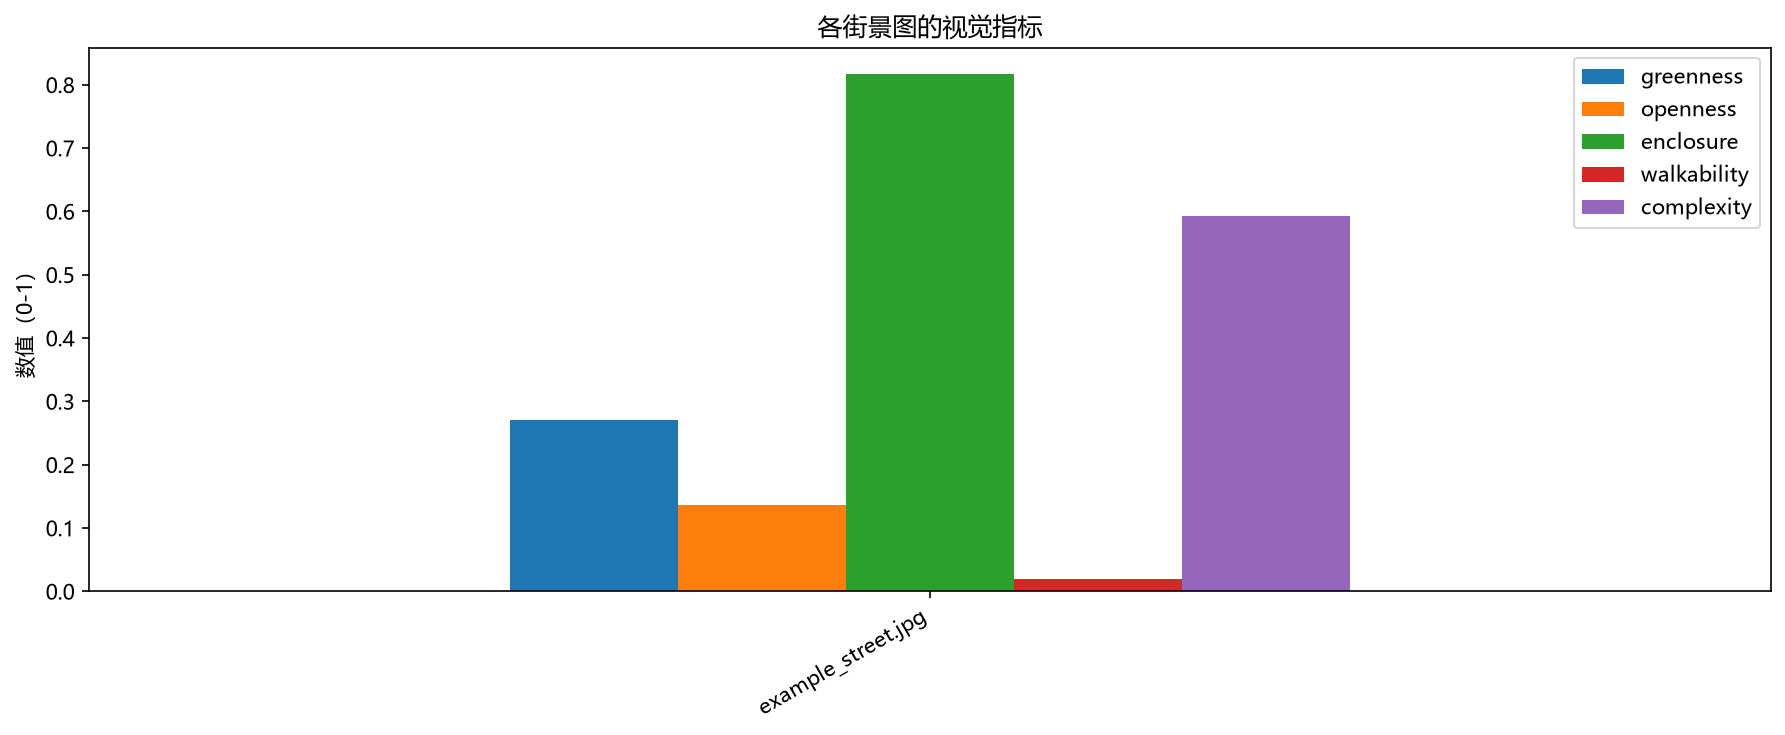
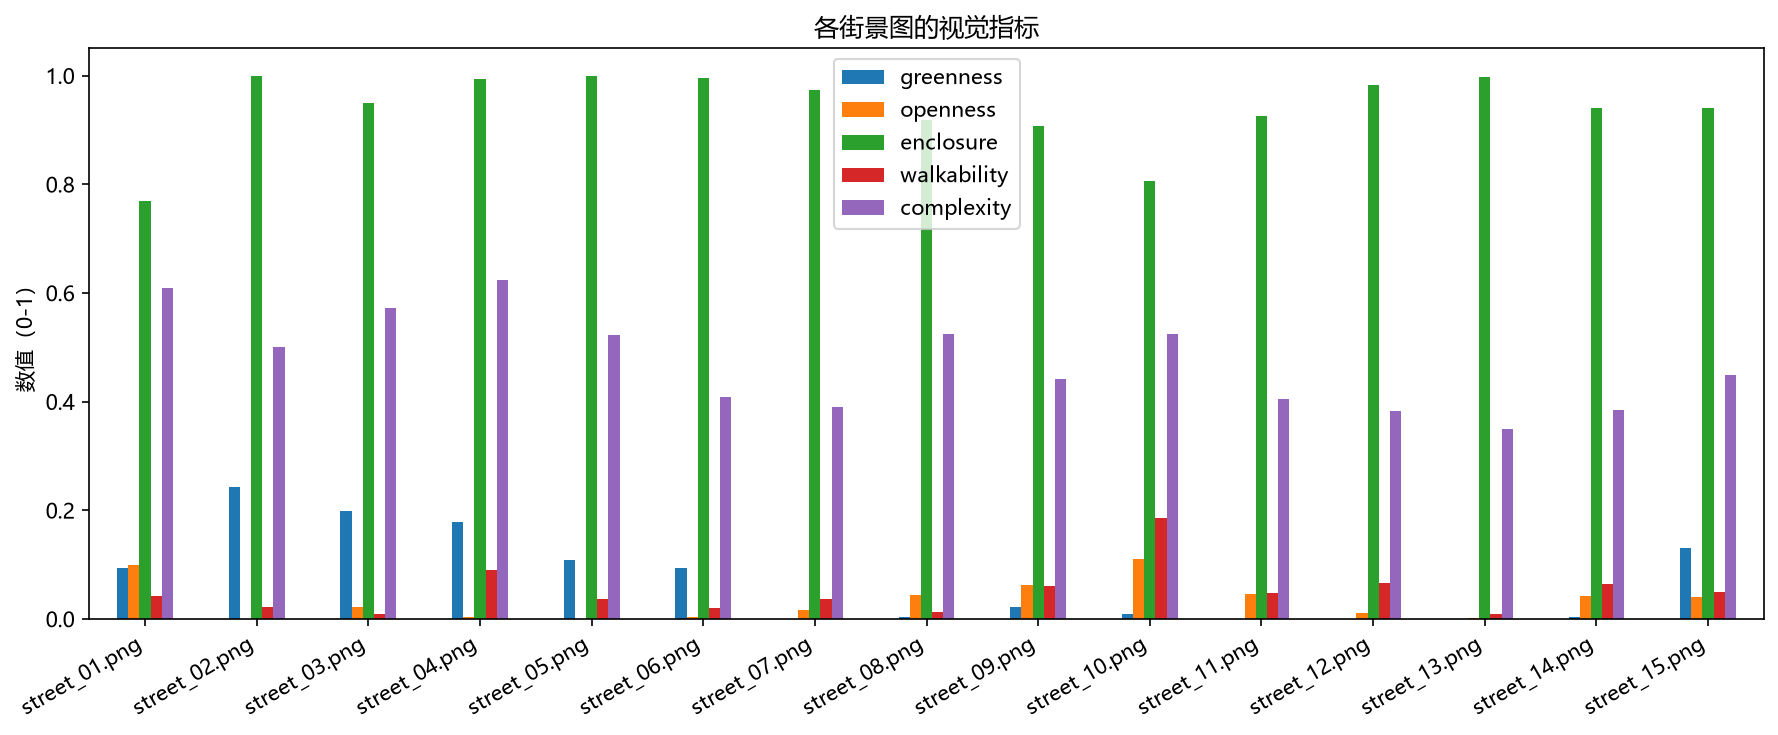
Add 12 street view images along a street sequence, add image quality checker, update results

diff --git a/check_image_quality.py b/check_image_quality.py
@@ -1,0 +1,96 @@
+# ============================================================
+# 图片质量检查：正式分析之前，先检查街景图是否合格
+#
+# 检查四项：
+#   1. 天空占比 —— 太少说明画面可能混进了界面，或视角不对
+#   2. 异常类别 —— bus/train/truck 占比过高，通常是误判
+#   3. 亮度 —— 太暗的图分割会失准
+#   4. 宽高比 —— 太宽的图会影响分割精度
+#
+# 用法：把图片放进 images/ 文件夹，然后运行本脚本
+# ============================================================
+
+import os
+
+os.environ.setdefault("HF_ENDPOINT", "https://hf-mirror.com")
+
+from glob import glob
+
+import numpy as np
+import torch
+from PIL import Image
+from transformers import SegformerImageProcessor, SegformerForSemanticSegmentation
+
+CITYSCAPES = [
+    "road", "sidewalk", "building", "wall", "fence", "pole",
+    "traffic light", "traffic sign", "vegetation", "terrain", "sky",
+    "person", "rider", "car", "truck", "bus", "train", "motorcycle", "bicycle",
+]
+
+# 判定阈值（可按需要调整）
+SKY_MIN = 0.05         # 天空至少占 5%
+ODD_CLASS_MAX = 0.10   # bus + train + truck 合计不该超过 10%
+BRIGHT_MIN = 60        # 平均亮度至少 60
+ASPECT_MAX = 2.0       # 宽高比不超过 2.0
+
+print("正在加载模型……")
+model_name = "nvidia/segformer-b0-finetuned-cityscapes-1024-1024"
+processor = SegformerImageProcessor.from_pretrained(model_name)
+model = SegformerForSemanticSegmentation.from_pretrained(model_name)
+model.eval()
+
+files = sorted(glob("images/*.jpg") + glob("images/*.jpeg") + glob("images/*.png"))
+if not files:
+    print("images 文件夹里没有图片。")
+    raise SystemExit(1)
+
+print(f"\n共 {len(files)} 张图片，开始检查……\n")
+print(f"{'文件':<16}{'尺寸':<13}{'亮度':<7}{'sky':<8}{'road':<8}{'bldg':<8}{'判定'}")
+print("-" * 82)
+
+problems = []
+for f in files:
+    img = Image.open(f).convert("RGB")
+    w, h = img.size
+    bright = float(np.array(img.convert("L")).mean())
+
+    inputs = processor(images=img, return_tensors="pt")
+    with torch.no_grad():
+        out = model(**inputs)
+    logits = torch.nn.functional.interpolate(
+        out.logits, size=img.size[::-1], mode="bilinear", align_corners=False
+    )
+    pred = logits.argmax(dim=1)[0].numpy()
+    total = pred.size
+    props = {name: (pred == i).sum() / total for i, name in enumerate(CITYSCAPES)}
+
+    # 逐项判定
+    # 注意：天空少有两种可能——(1) 真问题（画面混进界面）
+    #                        (2) 场景特征（林荫道、骑楼，树冠/建筑挡住了天空）
+    # 如果植被很多，说明大概率是林荫道，属于正常场景，不算问题
+    issues = []
+    if props["sky"] < SKY_MIN and props["vegetation"] < 0.15:
+        issues.append("天空过少")
+    if props["bus"] + props["train"] + props["truck"] > ODD_CLASS_MAX:
+        issues.append("异常类别")
+    if bright < BRIGHT_MIN:
+        issues.append("过暗")
+    if w / h > ASPECT_MAX:
+        issues.append("过宽")
+
+    verdict = "OK" if not issues else " ".join(issues)
+    if issues:
+        problems.append((os.path.basename(f), verdict))
+
+    print(
+        f"{os.path.basename(f):<16}{str(w) + 'x' + str(h):<13}{bright:<7.0f}"
+        f"{props['sky']:<8.1%}{props['road']:<8.1%}{props['building']:<8.1%}{verdict}"
+    )
+
+print()
+if problems:
+    print(f"有 {len(problems)} 张需要留意：")
+    for name, why in problems:
+        print(f"   {name}：{why}")
+else:
+    print("全部合格")

diff --git a/step3_heterogeneity.py b/step3_heterogeneity.py
@@ -52,9 +52,13 @@ METRICS = ["greenness", "openness", "enclosure", "walkability", "complexity"]
 
 # ------------------------------------------------------------
 # 2. 两个可调参数：两个尺度各看多少张邻居
+#
+# 注意：方差至少需要 2 个样本才有意义。
+# 如果窗口设成"前后各 1 张"，边界点就只有 1 个邻居，算不出方差。
+# 所以这里设成 2 和 4，保证每个点至少有 2 个邻居。
 # ------------------------------------------------------------
-WINDOW_IH = 1   # 即时异质性：前后各 1 张
-WINDOW_CH = 3   # 背景异质性：前后各 3 张
+WINDOW_IH = 2   # 即时异质性：前后各 2 张（最多 4 个邻居）
+WINDOW_CH = 4   # 背景异质性：前后各 4 张（最多 8 个邻居）
 
 
 # ------------------------------------------------------------

diff --git a/step1_semantic_segmentation.py b/step1_semantic_segmentation.py
@@ -29,8 +29,16 @@ processor = SegformerImageProcessor.from_pretrained(model_name)
 model = SegformerForSemanticSegmentation.from_pretrained(model_name)
 model.eval()
 
-# 2. 读一张街景图（把这里的文件名换成你自己的图）
-image_path = "images/example_street.jpg"
+# 2. 读一张街景图（自动取 images 文件夹里的第一张）
+image_files = sorted(
+    f for f in os.listdir("images")
+    if f.lower().endswith((".jpg", ".jpeg", ".png"))
+)
+if not image_files:
+    print("【提示】images 文件夹里没有图片，请先放入街景图。")
+    raise SystemExit(1)
+image_path = os.path.join("images", image_files[0])
+print(f"正在处理：{image_path}")
 image = Image.open(image_path).convert("RGB")
 
 # 3. 预处理 + 推理

diff --git a/README.md b/README.md
@@ -63,11 +63,12 @@ Following the paper's idea, heterogeneity = **the variance of the six indicators
 .
 ├── README.md
 ├── requirements.txt
+├── check_image_quality.py     # quality check for input images
 ├── step1_semantic_segmentation.py
 ├── step2_visual_indicators.py
 ├── step3_heterogeneity.py
 ├── images/                    # input street view images
-│   └── example_street.jpg
+│   └── street_01.png ... street_12.png
 └── outputs/                   # generated figures and tables
     ├── fig1_segmentation.png
     ├── fig2_indicators.png
@@ -75,6 +76,10 @@ Following the paper's idea, heterogeneity = **the variance of the six indicators
     ├── indicators.csv
     └── heterogeneity.csv
 ```
+
+> The `images/` folder contains **12 street view images** captured along one street sequence in Guangzhou, named in walking order.
+>
+> `images/` 文件夹里是广州同一条街道的 **12 张街景图**，按行走顺序命名。
 
 ---
 
